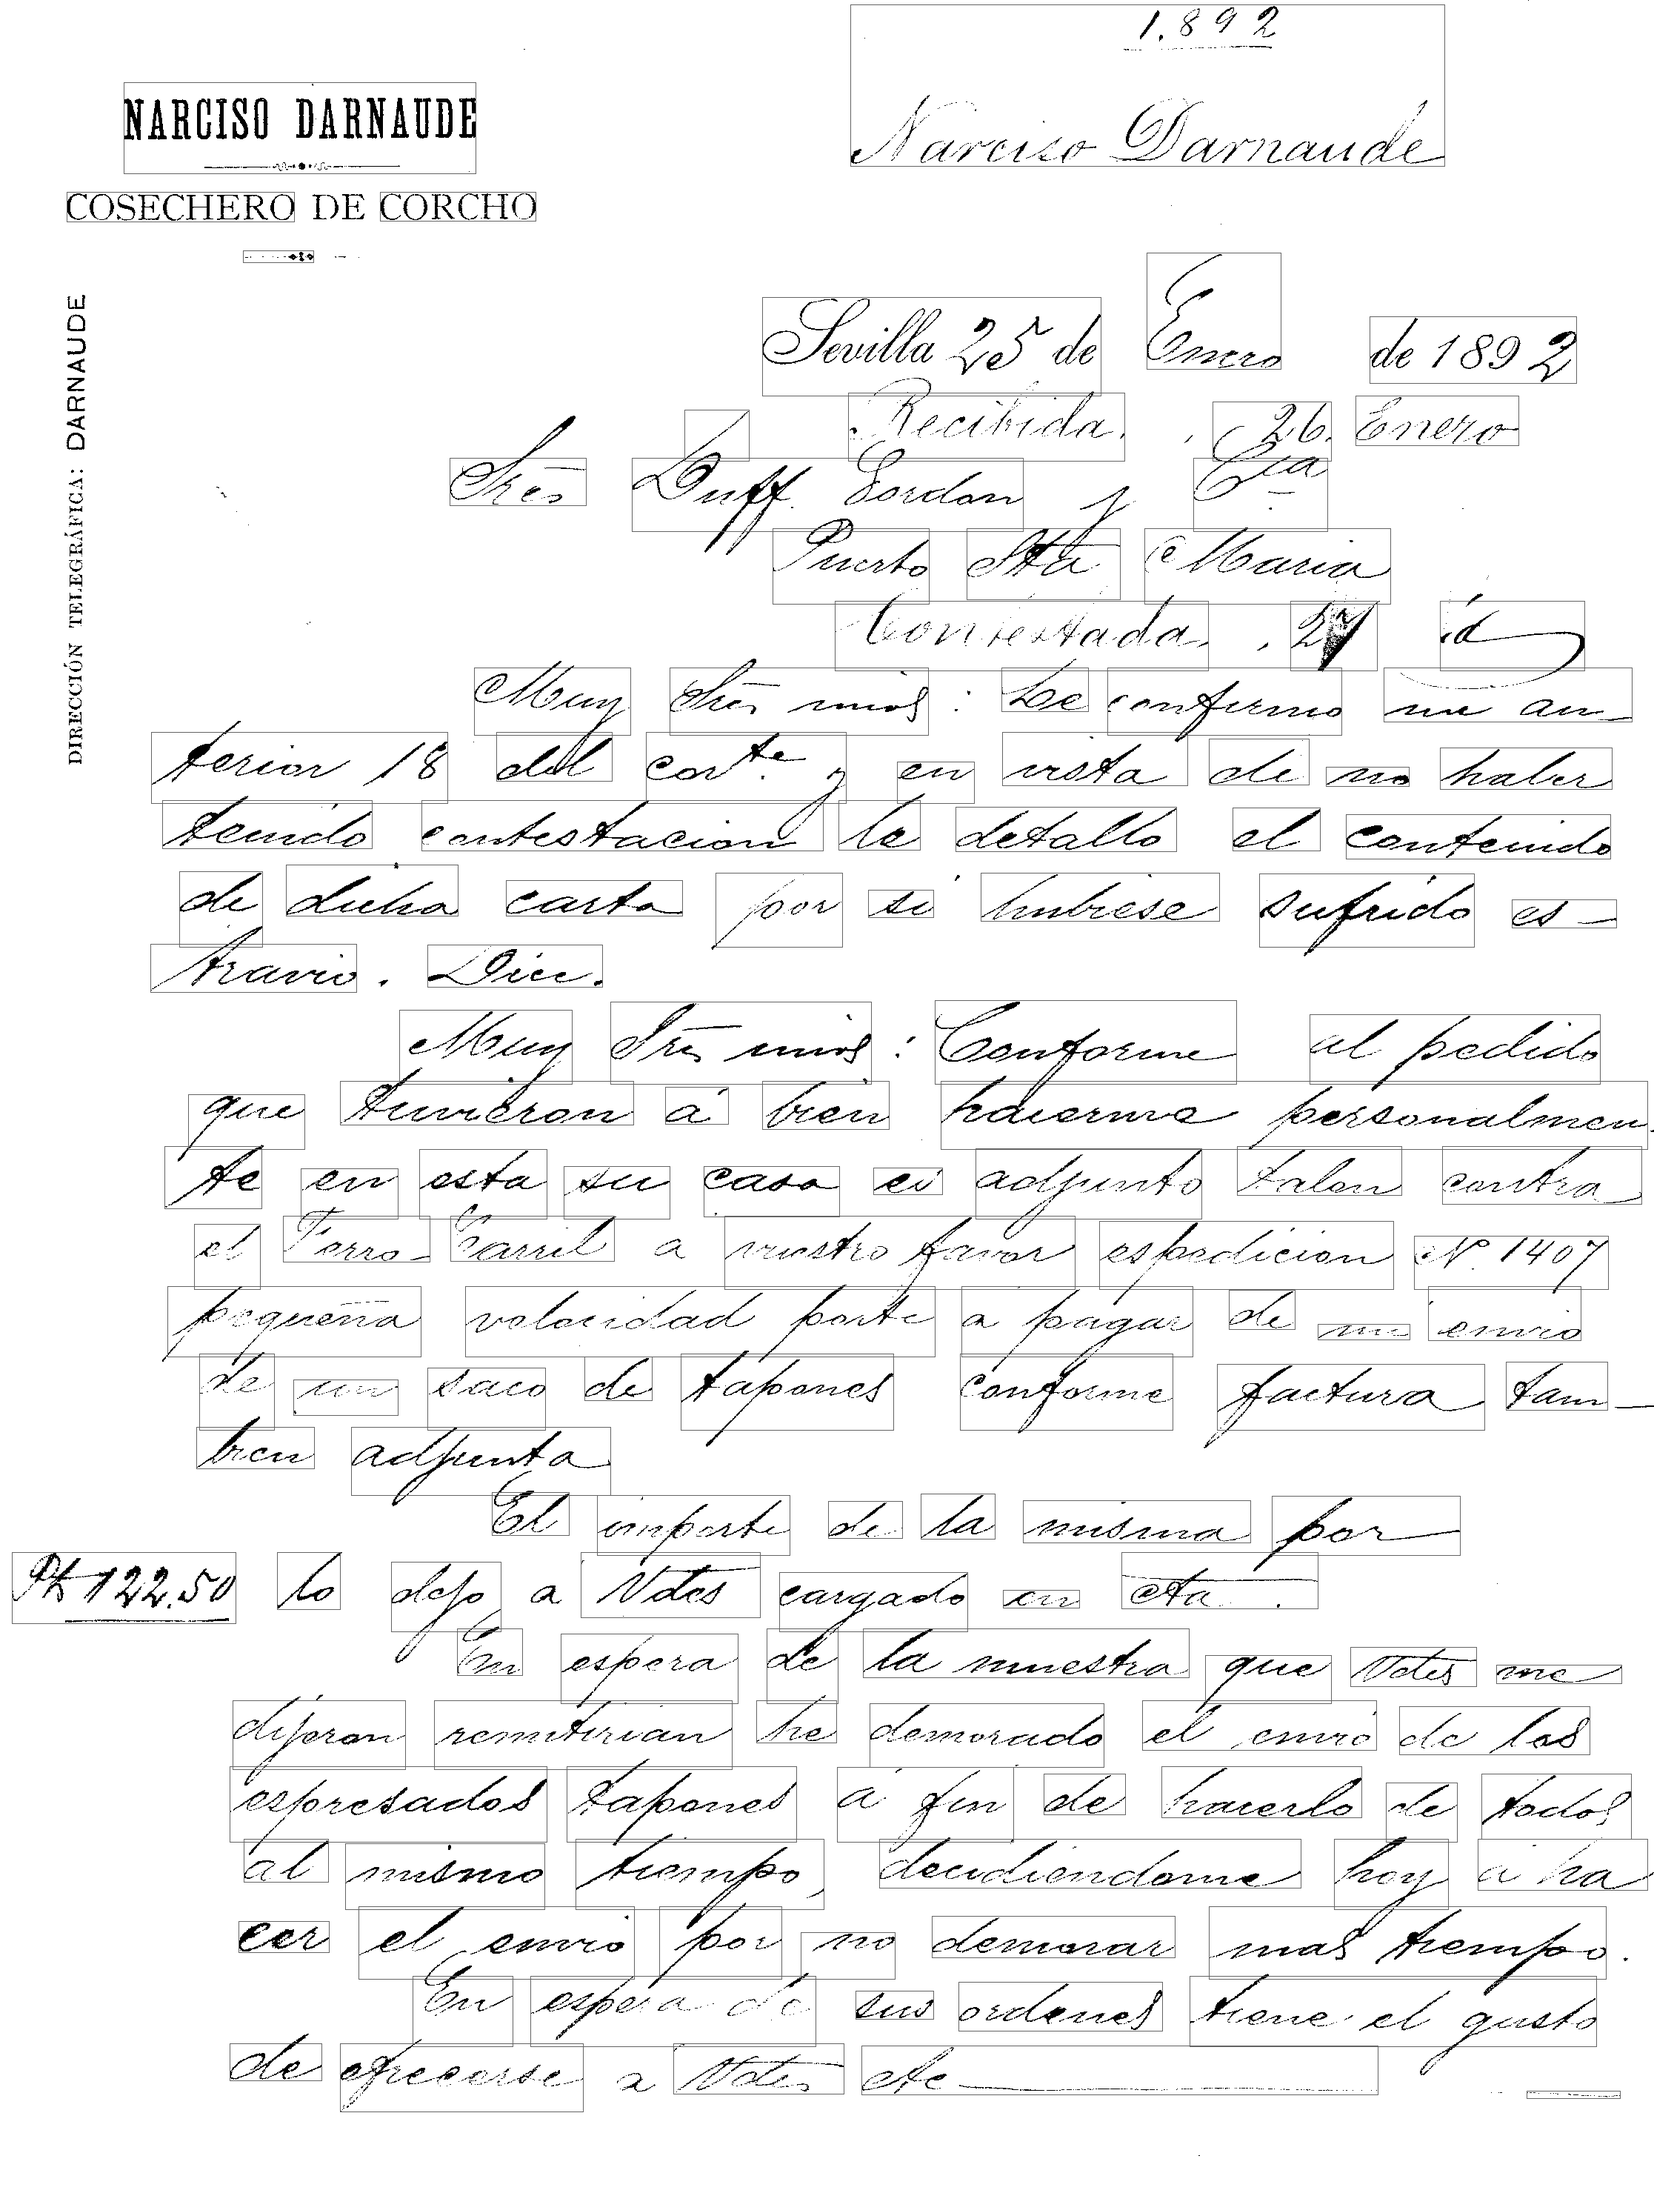
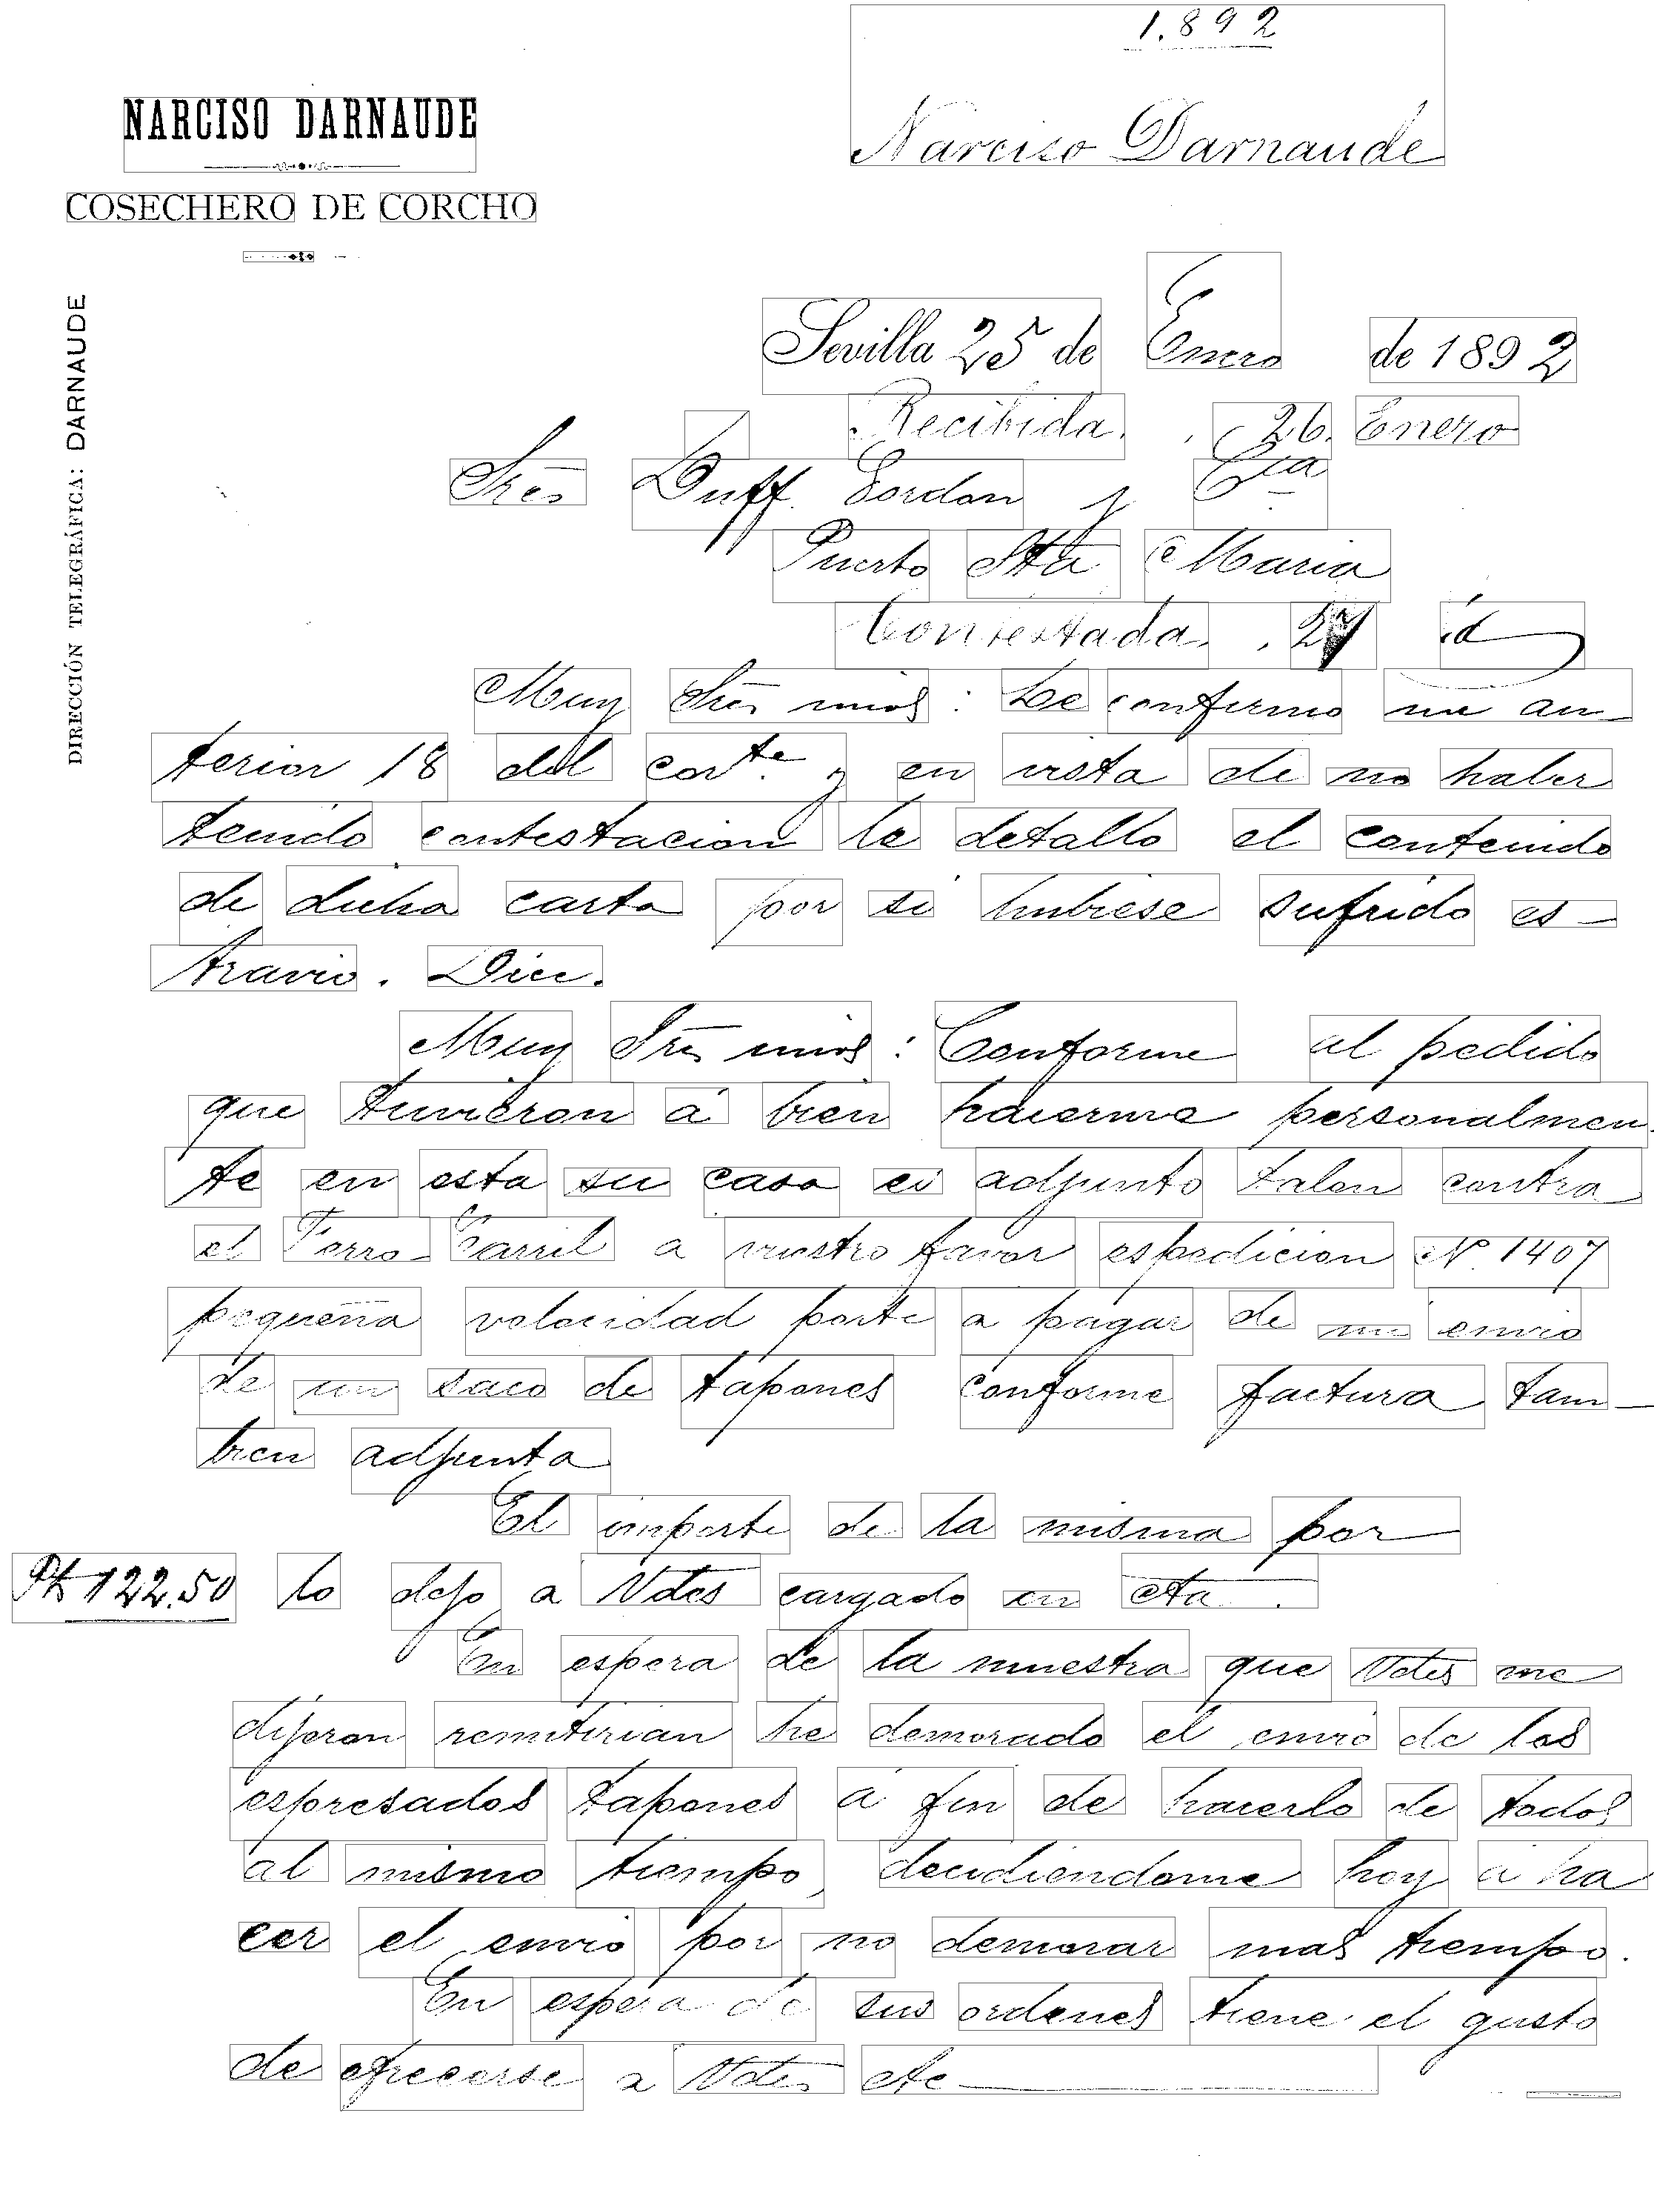
v0.7.5

diff --git a/src/main_palabras.py b/src/main_palabras.py
@@ -7,63 +7,88 @@ from src import Filtros
 separar = Separacion.Separacion()
 filtro = Filtros.Filtros()
 
-print("Importar imagen umbralizada")
+# Importar imagen binarizada
 img = cv2.imread('../Narciso2_met_1_vec_0_sig_0_thr_134.png', 0)
+# Importar imagen original
+img2 = cv2.imread('../imgs/Narciso2.png', -1)
 
 filas, colum = img.shape
-
-print("Importar imagen original")
-img2 = cv2.imread('../imgs/Narciso2.png', -1)
 
 print("Histograma vertical")
 hist_ver = separar.vert_hist(img)
 
-print("Filtrado")
+print("Filtrado del histograma vertical")
 filtrado = filtro.mediana(hist_ver, 10)
 
 print("Separar filas")
 ini_filas, fin_filas = separar.filas(filtrado, 100)
 num_filas = len(ini_filas)
 
-print("Separar palabras")
+# Separar palabras
 res=[]
 z=0
-for x in range(0, num_filas):
-    fila = img[ini_filas[x]:fin_filas[x], 0:colum]
+for y in range(0, num_filas):
+    print("Separar palabras: Fila %d de %d " % (y + 1, num_filas))
+    fila = img[ini_filas[y]:fin_filas[y], 0:colum]
     hist_fila = separar.hor_hist(fila)
     ini_palabras, fin_palabras = separar.palabras(hist_fila, 20, 80)
 
     num_palabras = len(ini_palabras)
 
-    print("Fila %d de %d " % (x + 1, num_filas))
+    for x in range(0, num_palabras):
 
-    for y in range(0, num_palabras):
+        res.append([ini_palabras[x], ini_filas[y], fin_palabras[x], fin_filas[y]])
 
-        res.append([ini_palabras[y], ini_filas[x], fin_palabras[y], fin_filas[x]])
+        palabra = img[res[z][1]:res[z][3], res[z][0]:res[z][2]]
 
-        palabra = img[ini_filas[x]:fin_filas[x], ini_palabras[y]:fin_palabras[y]]
+        # Separar palabras
         hist_palabra = separar.vert_hist(palabra)
+        hist_palabra_filtrada = filtro.mediana(hist_palabra, 5)
 
-        ini, fin = separar.ajustar(hist_palabra)
-
+        # Ajustar palabras
+        ini, fin = separar.ajustar(hist_palabra_filtrada)
         res[z][1] = res[z][1] + ini
         res[z][3] = res[z][3] - fin
 
-        cv2.line(img, (res[z][0], res[z][1]), (res[z][0], res[z][3]), 100, 1)
-        cv2.line(img, (res[z][2], res[z][1]), (res[z][2], res[z][3]), 100, 1)
-        cv2.line(img, (res[z][0], res[z][1]), (res[z][2], res[z][1]), 100, 1)
-        cv2.line(img, (res[z][0], res[z][3]), (res[z][2], res[z][3]), 100, 1)
+        # Dibujar rectángulos de palabras
+        #cv2.line(img, (res[z][0], res[z][1]), (res[z][2], res[z][1]), 100, 1)
+        #cv2.line(img, (res[z][2], res[z][1]), (res[z][2], res[z][3]), 100, 1)
+        #cv2.line(img, (res[z][2], res[z][3]), (res[z][0], res[z][3]), 100, 1)
+        #cv2.line(img, (res[z][0], res[z][3]), (res[z][0], res[z][1]), 100, 1)
 
         z += 1
+
+# Ampliar palabras
+z=1
+for y in range(1, num_filas - 2):
+    print("Ampliar palabras: Fila %d de %d" % (y, num_filas - 2))
+
+    for x in range(0, num_palabras):
+        # Ampliar palabras
+        margen = 10
+        ampliacion = img[(res[z][1] - margen):(res[z][3] + margen), res[z][0]:res[z][2]]
+        hist_ampliado = separar.vert_hist(ampliacion)
+        ini, fin = separar.ampliar(hist_ampliado, margen)
+        res[z][1] = res[z][1] - margen + ini
+        res[z][3] = res[z][3] + fin
+
+        # Dibujar rectángulos de palabras
+        cv2.line(img, (res[z][0], res[z][1]), (res[z][2], res[z][1]), 100, 1)
+        cv2.line(img, (res[z][2], res[z][1]), (res[z][2], res[z][3]), 100, 1)
+        cv2.line(img, (res[z][2], res[z][3]), (res[z][0], res[z][3]), 100, 1)
+        cv2.line(img, (res[z][0], res[z][3]), (res[z][0], res[z][1]), 100, 1)
+
+        z += 1
+
 
 print("Resultados gráficos")
 #cv2.namedWindow('result', cv2.WINDOW_AUTOSIZE)
 #cv2.imshow('result', img)
-#cv2.imwrite('../salida_ajustada.png', img)
+cv2.imwrite('../salida_pruebas.png', img)
 
-plt.figure(1)
+#plt.figure(1)
 #plt.subplot(211)
-plt.plot(hist_palabra)
-plt.plot(ini, hist_palabra[ini], 'ro')
-plt.plot(len(hist_palabra)-fin, hist_palabra[len(hist_palabra)-fin], 'bo')
-plt.show()
+#plt.plot(hist_palabra)
+#plt.plot(ini, hist_palabra[ini], 'ro')
+#plt.plot(len(hist_palabra)-fin, hist_palabra[len(hist_palabra)-fin], 'bo')
+#plt.show()

diff --git a/src/Separacion.py b/src/Separacion.py
@@ -169,3 +169,21 @@ class Separacion:
                     break
 
         return (inicio, final)
+
+    def ampliar(self, histograma, margen):
+        long = histograma.size
+
+        inicio = 0
+        final = 0
+
+        if histograma[margen] > 0:
+            for x in range(margen, 0, -1):
+                if histograma[x] == 0:
+                    inicio = x
+
+        if histograma[long - margen] > 0:
+            for x in range(long - margen, long - 1):
+                if histograma[x] == 0:
+                    final = x
+
+        return (inicio, final)

diff --git a/README.md b/README.md
@@ -1,10 +1,15 @@
 Readme Lab Osborne JMC, MRL, RRG, JSM
 ================== 
 
+v0.7.5 (RRG)
+------------
+1. Pruebas con la función separar.ajustar para ajustar las palabras
+2. Modificada la función main_palabras
+
 v0.7.4 (RRG)
 ------------
 1. La función main_palabras funciona correctamente
-2. Modificada la función Separación.ajustar para funcionar con palabras que se solapan 
+2. Modificada la función Separación.ajustar para funcionar con palabras que se solapan
 
 v0.7.3 (JMC)
 ------------
